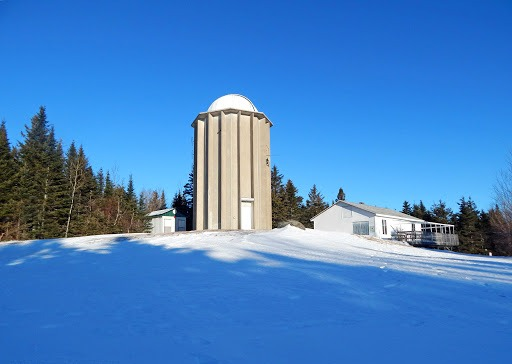
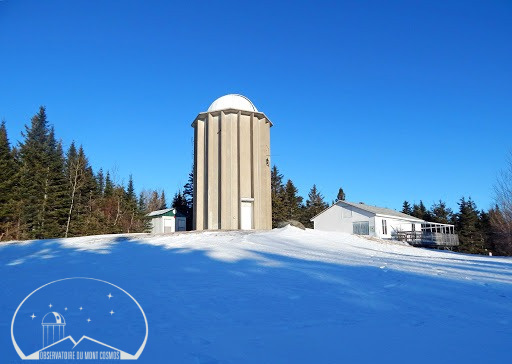
division html update, showcase 3d models dimensions fixed, content added

diff --git a/src/app/espace/espace.component.html b/src/app/espace/espace.component.html
@@ -33,6 +33,7 @@
                         En effet, maintenir un observatoire astronomique comporte un lot de défis uniques qui nécessite un large 
                         éventail de connaissances afin de répondre aux exigences scientifiques des observations.<br><br>
                     </h5>
+                    <img src="./assets/page-espace/mont-cosmos.png" height="" alt="">
                 </div>
             </div>
         </div>
@@ -57,39 +58,48 @@
                     présentement en poursuite de développement.<br><br>
                 </div>
             </div>
+            <div class="nav-tabs-navigation">
+                <div class="nav-tabs-wrapper">
+                    <ngb-tabset [justify]="'center'">
+                        <ngb-tab title="Premier Volet">
+                            <ng-template ngbTabContent>
+                                <div class="title">
+                                    <h3>Automatisation</h3>
+                                </div>
+                                <p>
+                                    L’automatisation du site par le biais d’une station météorologique et
+                                    par l’installation de caméras afin d’observer les conditions climatiques et 
+                                    de prévoir les conditions d’observation.
+                                </p>
+                            </ng-template>
+                        </ngb-tab>
+                        <ngb-tab title="Deuxième Volet">
+                            <ng-template ngbTabContent>
+                                <div class="title">
+                                    <h3>Robotisation</h3>
+                                </div>
+                                <p>
+                                    La robotisation de l’observatoire afin d’y accéder à distance et faire de la prise de donnée de 
+                                    manière autonome par le contrôle de la monture, du dôme et de la porte d’observation.
+                                </p>
+                            </ng-template>
+                        </ngb-tab>
+                        <ngb-tab title="Troisième Volet">
+                            <ng-template ngbTabContent>
+                                <div class="title">
+                                    <h3>Réparation du spectrographe</h3>
+                                </div>
+                                <p>
+                                    La réparation et l’opération par ordinateur d’un spectrographe étant le seul instrument 
+                                    scientifique de l’observatoire depuis 2005.
+                                </p>
+                            </ng-template>
+                        </ngb-tab>
+                    </ngb-tabset>
+                </div>
+            </div> 
         </div>
-    </div>
-    <!--TROIS VOLETS-->
-    <div class="container">
-        <div class="row">
-            <h2 class="title">Premier Volet</h2>
-            <div class="col-lg-6 col-md-12">
-                <p class="description">
-                    L’automatisation du site par le biais d’une station météorologique et
-                    par l’installation de caméras afin d’observer les conditions climatiques et 
-                    de prévoir les conditions d’observation.
-                </p><br/>
-            </div>
-        </div>
-        <div class="row">
-            <h2 class="title">Deuxième Volet</h2>
-            <div class="col-lg-6 col-md-12">
-                <p class="description">
-                    La robotisation de l’observatoire afin d’y accéder à distance et faire de la prise de donnée de 
-                    manière autonome par le contrôle de la monture, du dôme et de la porte d’observation.
-                </p><br/>
-            </div>
-        </div>
-        <div class="row">
-            <h2 class="title">Troisième Volet</h2>
-            <div class="col-lg-6 col-md-12">
-                <p class="description">
-                    La réparation et l’opération par ordinateur d’un spectrographe étant le seul instrument 
-                    scientifique de l’observatoire depuis 2005.
-                </p><br/>
-            </div>
-        </div>
-    </div>
+    </div>       
     <!--WHIRLPOOL GALAXY-->
     <div class="section section-dark">
         <div class="container">

diff --git a/src/app/fusee/fusee.component.html b/src/app/fusee/fusee.component.html
@@ -42,11 +42,9 @@
             </div>
             <div class="row">
                 <div class="title">
-                    <div class="col-lg-6 col-md-12">
-                        <img src="./assets/page-fusee/excelsior-liftoff.png"alt="" height="450px">
-                        <img src="./assets/page-fusee/launchpad-highv.png"alt="" height="450px">
-                    </div>
-                    <div class="col-lg-6 col-md-12" >
+                    <div>
+                        <img class="img-right" src="./assets/page-fusee/excelsior-liftoff.png" alt="" height="500px">
+                        
                         <h3>Aérostructure</h3><br>
                         Le groupe aérostructure est celui qui s’occupe de tout ce que l’on voit sur la fusée. En effet, 
                         ses membres se consacrent au design et à la fabrication du fuselage. Ils s’occupent aussi de tout 
@@ -54,6 +52,8 @@
                         jusqu’au revêtement en matériaux composites pour solidifier la fusée. De plus, les étudiants 
                         accomplissent des tâches connexes telles que la conception d’un parachute et d’un tube de Pitot 
                         ainsi que le design 3D de toutes les pièces de la fusée et la simulation du vol.<br><br>
+                        
+                        <img class="img-left" src="./assets/page-fusee/launchpad-highv.png" alt="" height="500px">
 
                         <h3>Avionique</h3><br>
                         Le groupe avionique est responsable de concevoir les circuits électriques présents dans la fusée, 
@@ -81,28 +81,28 @@
             </div>
             <div class="row">
                 <div>
-                    <img src="./assets/page-fusee/fusee1.png" alt="" height="600px"><br>
-                    <h6>2015<br>Blackbird<br>Classement: N/A<br>Altitude: 11 554'</h6>
+                    <img class="fusee-img" src="./assets/page-fusee/fusee1.png" alt="" height="600px"><br>
+                    <h6 class="fusee-text">2015<br>Blackbird<br>Classement: N/A<br>Altitude: 11 554'</h6>
                 </div>
                 <div>
-                    <img src="./assets/page-fusee/fusee2.png" alt="" height="600px"><br>
-                    <h6>2016<br>Ragnarök<br>Classement: 4<br>Altitude: 10 086'</h6>
+                    <img class="fusee-img" src="./assets/page-fusee/fusee2.png" alt="" height="600px"><br>
+                    <h6 class="fusee-text">2016<br>Ragnarök<br>Classement: 4<br>Altitude: 10 086'</h6>
                 </div>
                 <div>
-                    <img src="./assets/page-fusee/fusee3.png" alt="" height="600px"><br>
-                    <h6>2017<br>Menhir<br>Classement: 16<br>Altitude: 8 015'</h6>
+                    <img class="fusee-img" src="./assets/page-fusee/fusee3.png" alt="" height="600px"><br>
+                    <h6 class="fusee-text">2017<br>Menhir<br>Classement: 16<br>Altitude: 8 015'</h6>
                 </div>
                 <div>
-                    <img src="./assets/page-fusee/fusee4.png" alt="" height="600px"><br>
-                    <h6>2018<br>High V<br>Classement: 5<br>Altitude: 9 517'</h6>
+                    <img class="fusee-img" src="./assets/page-fusee/fusee4.png" alt="" height="600px"><br>
+                    <h6 class="fusee-text">2018<br>High V<br>Classement: 5<br>Altitude: 9 517'</h6>
                 </div>
                 <div>
-                    <img src="./assets/page-fusee/fusee5.png" alt="" height="600px"><br>
-                    <h6>2019<br>Excelsior!<br>Classement: 7<br>Altitude: 22 000'</h6>
+                    <img class="fusee-img" src="./assets/page-fusee/fusee5.png" alt="" height="600px"><br>
+                    <h6 class="fusee-text">2019<br>Excelsior!<br>Classement: 7<br>Altitude: 22 000'</h6>
                 </div>
                 <div>
-                    <img src="./assets/page-fusee/fusee6.png" alt="" height="600px"><br>
-                    <h6>2020-2021<br><br>À Venir<br></h6>
+                    <img class="fusee-img" src="./assets/page-fusee/fusee6.png" alt="" height="600px"><br>
+                    <h6 class="fusee-text">2020-2021<br><br>À Venir<br></h6>
                 </div>
             </div>
         </div>

diff --git a/src/app/showcase/showcase.component.html b/src/app/showcase/showcase.component.html
@@ -17,43 +17,43 @@
                     <ngb-tab title="ISS">
                         <ng-template ngbTabContent>
                             <p>International Space Station</p>
-                            <iframe src="https://solarsystem.nasa.gov/gltf_embed/2378" frameborder="0" scrolling="no"></iframe>
+                            <iframe id="model" src="https://solarsystem.nasa.gov/gltf_embed/2378" frameborder="0" scrolling="no"></iframe>
                         </ng-template>
                     </ngb-tab>
                     <ngb-tab title="Hubble">
                         <ng-template ngbTabContent>
                             <p>Hubble Space Telescope</p>
-                            <iframe src="https://solarsystem.nasa.gov/gltf_embed/2383" frameborder="0" scrolling="no"></iframe>
+                            <iframe id="model" src="https://solarsystem.nasa.gov/gltf_embed/2383" frameborder="0" scrolling="no"></iframe>
                         </ng-template>
                     </ngb-tab>
                     <ngb-tab title="Mars">
                         <ng-template ngbTabContent>
                             <p>Mars, the Red Planet</p>
-                            <iframe src="https://solarsystem.nasa.gov/gltf_embed/2372" frameborder="0" scrolling="no"></iframe>
+                            <iframe id="model" src="https://solarsystem.nasa.gov/gltf_embed/2372" frameborder="0" scrolling="no"></iframe>
                         </ng-template>
                     </ngb-tab>
                     <ngb-tab title="Mars Rover">
                         <ng-template ngbTabContent>
                             <p>Mars Twin Rovers: Spirit and Opportunity</p>
-                            <iframe src="https://solarsystem.nasa.gov/gltf_embed/2370" frameborder="0" scrolling="no"></iframe>
+                            <iframe id="model" src="https://solarsystem.nasa.gov/gltf_embed/2370" frameborder="0" scrolling="no"></iframe>
                         </ng-template>
                     </ngb-tab>
                     <ngb-tab title="Atlas V">
                         <ng-template ngbTabContent>
                             <p>Atlas V Rocket</p>
-                            <iframe src="https://solarsystem.nasa.gov/gltf_embed/2405" frameborder="0" scrolling="no"></iframe>
+                            <iframe id="model" src="https://solarsystem.nasa.gov/gltf_embed/2405" frameborder="0" scrolling="no"></iframe>
                         </ng-template>
                     </ngb-tab>
                     <ngb-tab title="Parker">
                         <ng-template ngbTabContent>
                             <p>Parker Solar Probe</p>
-                            <iframe src="https://solarsystem.nasa.gov/gltf_embed/2356" frameborder="0" scrolling="no"></iframe>
+                            <iframe id="model" src="https://solarsystem.nasa.gov/gltf_embed/2356" frameborder="0" scrolling="no"></iframe>
                         </ng-template>
                     </ngb-tab>
                     <ngb-tab title="Earth">
                         <ng-template ngbTabContent>
                             <p>Earth</p>
-                            <iframe src="https://solarsystem.nasa.gov/gltf_embed/2392" frameborder="0" scrolling="no"></iframe>
+                            <iframe id="model" src="https://solarsystem.nasa.gov/gltf_embed/2392" frameborder="0" scrolling="no"></iframe>
                         </ng-template>
                     </ngb-tab>
                 </ngb-tabset>

diff --git a/src/app/home/home.component.html b/src/app/home/home.component.html
@@ -13,7 +13,7 @@
                 <h2 class="presentation-subtitle text-center">Groupe Aérospatial</h2>
             </div>
         </div>
-        <h6 class=" category-absolute ml-auto mr-auto">
+        <h6 class="category-absolute ml-auto mr-auto">
             <a href="https://www.ulaval.ca/" target="_blank">
                 <img src="./assets/logos-partenaires/logo-ul-white.png" class="uni-laval-logo">
             </a>

diff --git a/src/app/showcase/showcase.component.scss b/src/app/showcase/showcase.component.scss
@@ -2,7 +2,8 @@ ng-template {
     height: 100px !important;
 }
 
-iframe {
-    width: 100% !important;
-    height: 100% !important;
+#model {
+    height: 500px;
+    width: 1000px;
+    position: relative;
 }

diff --git a/src/app/fusee/fusee.component.scss b/src/app/fusee/fusee.component.scss
@@ -1,0 +1,14 @@
+.img-right {
+    float: right;
+    padding: 20px;
+}
+
+.img-left {
+    float: left;
+    padding: 20px;
+}
+
+.fusee-text {
+    justify-content: center;
+    padding: 10px;
+}

diff --git a/src/app/espace/espace.component.scss b/src/app/espace/espace.component.scss
@@ -1,0 +1,6 @@
+img {
+    display: block;
+    margin-left: auto;
+    margin-right: auto;
+    width: 50%;
+}
